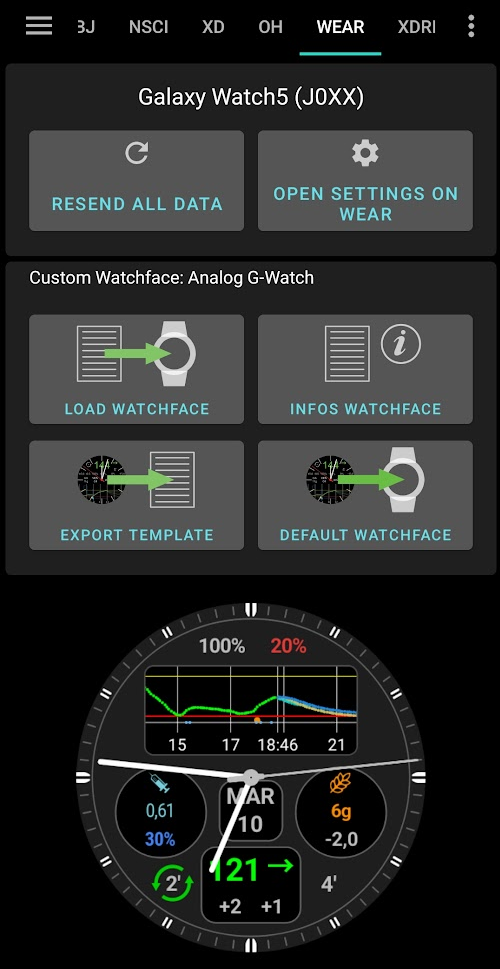
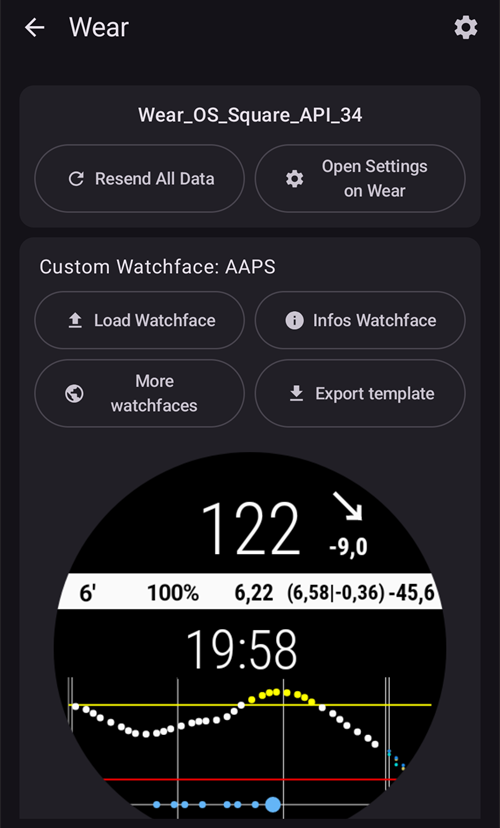
Update Wear

diff --git a/docs/EN/RemoteFeatures/RemoteControlWearOS.md b/docs/EN/RemoteFeatures/RemoteControlWearOS.md
@@ -30,7 +30,8 @@ The top line shows the name of the connected watch, or **(No Watch Connected)**.
 * Resend all data.
   Might be helpful if watch was not connected for some time, and you want to push the information to the watch.
 * Open settings on your watch directly from your phone.
-* Choose which watchface **AAPS** installs on a **Wear OS 6** or newer watch (**Watchface installed on watch**: your custom watchface, or the complications watchface). See [the watchface AAPS installs](#wearos-aaps-v4-watchface).
+* Choose which watchface **AAPS** installs on the watch (**Watchface installed on watch**: your custom watchface, or the complications watchface). This card is only shown while a **Wear OS 6** or newer watch is connected. See [the watchface AAPS installs](#wearos-aaps-v4-watchface).
+* Manage the **Custom Watchface** (the card is shown while a watch is connected): **Load Watchface** sends a custom watchface to the watch, **Infos Watchface** lists the details of the loaded watchface and the fields it contains, **More watchfaces** opens the [exchange site](../ExchangeSiteCustomWatchfaces/index.md) in your browser, and **Export template** saves a template you can edit. A preview of the loaded watchface is shown below the buttons. See [Changing to an AAPS Watchface](#WearOS_changing-to-AAPS-watchface).
 
 Ensure notifications from AAPS are not blocked on the watch. Confirmation of an action (e.g. bolus, tempt target) comes via a notification which you will need to swipe and tick.
 
@@ -49,7 +50,9 @@ To open the main menu of **AAPS**, use one of these:
 
 ## Loop Status screen
 
-The **Loop Status** screen gives a summary of what the loop is doing, without taking out your phone. Open it from the AAPS main menu (**Loop status**, or **Status → Loop**), or by tapping the **Blood Glucose** complication.
+The **Loop Status** screen gives a summary of what the loop is doing, without taking out your phone. Open it from the AAPS main menu (**Loop status**, or **Status → Loop**), or by tapping the **Blood Glucose** complication. The **Status** menu also has a **Pump** page and a **TDD** page with the total daily doses.
+
+![Status menu: Pump, Loop and TDD](../images/wearos/status_menu.png)
 
 ![Loop Status screen](../images/wearos/loop_status.png)
 
@@ -106,7 +109,7 @@ The **Calculator Percentage** setting lets you enter a *percentage* of the calcu
 
 ### Choosing the meal type
 
-The watch calculator can split the carbs of a slow meal into carbs now and eCarbs later, like the [carbs type](#AapsScreens-carbs-type) of the phone wizard. Turn on **Calculator Meal Type** in the watch settings. The setting is off by default, and then the **Meal type** page is skipped.
+The watch calculator can split the carbs of a slow meal into carbs now and eCarbs later, like the [carbs type](#AapsScreens-carbs-type) of the phone wizard. Turn on **Calculator Meal Type** in the watch's **Settings** > **Interface**. The setting is off by default, and then the **Meal type** page is skipped.
 
 * After you enter the carbs, a **Meal type** page shows three icons: **Bread**, **Cake** and **Pizza**. Tap an icon: its name and the carbs it gives show below the icons, for example *65 g* for bread, or *52+22 g* for pizza (52 g now and 22 g of eCarbs later). **Bread** is the default and keeps all the carbs now.
 * The request and confirm pages show the carbs in the same way (*52+22 g*). The result page also shows when the eCarbs start and how long they last.
@@ -173,11 +176,17 @@ AAPS provides the complications below. "Opens" is what a tap does with **Complic
 * **Running mode** (`SMALL IMAGE` / `ICON`, opens _Running mode picker_): the current loop mode as an icon: closed loop, open loop, low glucose suspend, suspended, disconnected or disabled. A tap opens a picker with the mode changes allowed right now, for example **Suspend loop**, **Disconnect pump**, **Resume loop** or **Reconnect pump**. The same picker is in the **AAPS** main menu under **Running mode**.
 * **Uploader/Phone Battery** (`RANGED VALUE` / `SHORT TEXT` / `ICON`, opens _Status_): the battery of the **AAPS** phone, as a gauge with a battery icon, as a number, or as the icon alone. It updates together with the other **AAPS** data, usually every 5 minutes with a new reading.
 
+The **Running mode** picker, as opened from the complication, the main menu or the Running mode tile:
+
+![Running mode picker with the modes you can switch to](../images/wearos/running_mode_picker.png)
+
 (WearOsSmartwatch-complication-settings)=
 
 ### Complication related settings
 
 In the **AAPS** main menu on the watch, open **Settings** > **Complication**:
+
+![Settings > Complication on the watch](../images/wearos/settings_complication.png)
 
 * **Complication Tap Action** (default `Default`): what a tap on an **AAPS** complication opens, for all complications at once:
   * _Default_: what the complication itself opens, see the list above
@@ -238,9 +247,17 @@ Shortcuts to the dialogs of the **AAPS** watch app. Pick up to four of these in 
 * **TempT**: a temporary target with a custom target and duration
 * **Profile switch**: a profile switch with percentage, time shift and duration
 
-[1] In the watch's **Settings**, turn on **Calculator Percentage** to show the percentage input in the bolus calculator. The default percentage comes from the phone's ["Deliver this part of the bolus wizard result %"](#Preferences-deliver-this-part-of-bolus-wizard-result). The other calculator settings are those of the phone under **Preferences** > **Wizard Settings**.
+![Actions tile settings: one entry per place](../images/wearos/tiles/tile_settings_actions.png)
 
-[2] In the watch's **Settings**, turn on **Calculator Meal Type** to show the **Meal type** page, where you pick **Bread**, **Cake** or **Pizza** to split the carbs of a slow meal into carbs now and eCarbs later. See [Choosing the meal type](#WearOsSmartwatch-wizard-meal-type).
+The dialogs the buttons open. Swipe from right to left to reach the next page of a dialog, and tap the check mark on the last page to send the request to the phone:
+
+| Treat | Insulin | Carbs | eCarbs | TempT | Profile switch |
+| --- | --- | --- | --- | --- | --- |
+| ![Treatment dialog, insulin page](../images/wearos/dialogs/dialog_treatment.png) | ![Insulin dialog](../images/wearos/dialogs/dialog_insulin.png) | ![Carbs dialog](../images/wearos/dialogs/dialog_carbs.png) | ![eCarbs dialog](../images/wearos/dialogs/dialog_ecarbs.png) | ![Temp Target dialog, duration page](../images/wearos/dialogs/dialog_temp_target.png) | ![Profile switch dialog](../images/wearos/dialogs/dialog_profile_switch.png) |
+
+[1] In the watch's **Settings** > **Interface**, turn on **Calculator Percentage** to show the percentage input in the bolus calculator. The default percentage comes from the phone's ["Deliver this part of the bolus wizard result %"](#Preferences-deliver-this-part-of-bolus-wizard-result). The other calculator settings are those of the phone under **Preferences** > **Wizard Settings**.
+
+[2] In the watch's **Settings** > **Interface**, turn on **Calculator Meal Type** to show the **Meal type** page, where you pick **Bread**, **Cake** or **Pizza** to split the carbs of a slow meal into carbs now and eCarbs later. See [Choosing the meal type](#WearOsSmartwatch-wizard-meal-type).
 
 ### Temp Target tile
 
@@ -268,6 +285,8 @@ The [QuickWizard](#quickwizards) entries of the phone that have **Show on Watch*
 
 The [Scenes](#scenes-from-watch) of the phone. Each of the four places is set to **Automatic**, **None** or one scene in the tile settings. An **Automatic** place takes the next scene from the phone's list that no other place has claimed. A place set to a scene that no longer exists on the phone shows **Unavailable**.
 
+![Scene tile settings, four places set to Automatic](../images/wearos/tiles/tile_settings_scene.png)
+
 ### Running mode tile
 
 ![Running mode tile](../images/wearos/tiles/tile_running_mode.png)
@@ -285,6 +304,10 @@ One button for each [automation](#automations-automation-triggers) on the phone 
 ![BG Graph tile](../images/wearos/tiles/tile_bg_graph.png)
 
 The glucose value with arrow, delta and age, below it IOB, COB, basal rate and target, and the BG graph with predictions, boluses, carbs and SMBs. Two settings on the watch: **Time range** (1, 3 or 6 hours) and **Tap action**, which opens the full **BG Graph**, the **Main Menu** or the **Loop Status** screen.
+
+![The BG Graph screen](../images/wearos/bg_graph.png)
+
+![BG Graph tile settings: Time range and Tap action](../images/wearos/tiles/tile_settings_bg_graph.png)
 
 ## Always on
 

diff --git a/docs/EN/WearOS/WearOsSmartwatch.md b/docs/EN/WearOS/WearOsSmartwatch.md
@@ -38,12 +38,12 @@ Watches running **Wear OS 6 or newer** cannot run the classic AAPS watchfaces as
 - **Custom watchface** (default): shows the custom watchface you loaded from the phone with **Load Watchface** (see [Changing to an AAPS Watchface](#WearOS_changing-to-AAPS-watchface)). The watch draws your design as a picture, so every existing custom watchface works. The complication slots a custom watchface may define are **not available** in this picture, because Wear OS only delivers complication data to a real watchface. Long-press the face to reach its one setting: whether the always-on display shows a plain clock or your own design, dimmed.
 - **Complications watchface** (the **AAPS V4** watchface): its **seven complication slots** come **preconfigured with AAPS data**: BG value, IOB, COB, the [BG Graph complication](#Watchfaces-complications), basal rate / temp target, and the **Running Mode** icon in the top-left slot (tap it to change the loop mode from the watch). Tap the time at the top to open the watch's alarm app. You can change what each slot shows in the watch face editor.
 
-You choose on the phone: open the **Wear** plugin and, under **Watchface installed on watch**, select one of the two. **AAPS** asks you to confirm, because the watch replaces its face immediately. Switching away from the **Complications watchface** also resets the complications you changed in the watch face editor back to the defaults, and the confirmation says so. While the **Complications watchface** is selected, the custom watchface buttons are hidden and a preview of the face is shown instead. If you load a custom watchface while the **Complications watchface** is selected, **AAPS** reminds you to switch to **Custom watchface** to see it on the watch.
+You choose on the phone: open the **Wear** plugin and, under **Watchface installed on watch**, select one of the two. This card is only shown while a Wear OS 6 or newer watch is connected. **AAPS** asks you to confirm, because the watch replaces its face immediately. Switching away from the **Complications watchface** also resets the complications you changed in the watch face editor back to the defaults, and the confirmation says so. While the **Complications watchface** is selected, the custom watchface buttons are hidden and a preview of the face is shown instead. If you load a custom watchface while the **Complications watchface** is selected, **AAPS** reminds you to switch to **Custom watchface** to see it on the watch.
 
 - The selected watchface is **installed and activated automatically** the first time the AAPS watch app runs on such a watch, and it is **updated automatically** together with the watch app.
 - If you removed the watchface, an **Install watchface** entry appears at the bottom of the watch's AAPS **main menu** — tap it to reinstall.
 
-On watches running Wear OS 5 or older this setting is ignored (the mechanism it relies on requires Wear OS 6); the classic watchfaces run there as before.
+While a watch running Wear OS 5 or older is connected, the **Watchface installed on watch** card is not shown at all (the mechanism it relies on requires Wear OS 6); the classic watchfaces run there as before.
 
 (wearos-complications-watchface-setup)=
 
@@ -326,17 +326,17 @@ There are a number of watchfaces available in the standard build of the AAPS Wea
 
 3. Now open AAPS on your phone and open the Wear plugin: **Configuration** > **Communication** > **Wear** > **Open plugin** (tick **Wear** first if it is not enabled).
 
-![Wear plugin with the Custom Watchface buttons](../images/wearos/wear_plugin_custom_watchface.png)
+![Wear plugin with the Custom Watchface card](../images/wearos/wear_plugin_custom_watchface.png)
 
 4. Click on the "Load Watchface" button and select the watchface that you like
 
 ![Select Custom Watchface list](../images/wearos/select_custom_watchface.png)
 
-5. Check your watch, the "AAPS (Custom)" watchface should now be displaying the skin that you have selected. Give it a few seconds to refresh. You may now customize the complications, etc. by long pressing the watchface and then pressing the "Customize" button on the watchface image.
+5. Check your watch, the "AAPS (Custom)" watchface should now be displaying the skin that you have selected. Give it a few seconds to refresh. The **Wear** screen on the phone now shows the name of the loaded watchface and a preview of it. **Infos Watchface** lists its details and the fields it contains, and **More watchfaces** opens the [exchange site](../ExchangeSiteCustomWatchfaces/index.md) where you can download other custom watchfaces. You may now customize the complications, etc. by long pressing the watchface and then pressing the "Customize" button on the watchface image.
 
 ```{admonition} Complications on a custom watchface
 :class: note
-Custom watchfaces made with version 3.0 or newer of the custom watchface format can contain up to five complication slots, with their position and size defined by the watchface (**Complication layout**). On the watch, long-press the watchface, tap **Customize** and tap **Complication 1** to **Complication 5** to choose the data source shown in each slot. The same rows are listed in the watch's AAPS app under **Settings**; tapping one there opens the same picker. **Complication type priority** decides whether a slot prefers a value or gauge, text, or an icon when the data source offers several. A changed priority only applies the next time you pick a data source for that slot.
+Custom watchfaces made with version 3.0 or newer of the custom watchface format can contain up to five complication slots, with their position and size defined by the watchface (**Complication layout**). On the watch, long-press the watchface, tap **Customize** and tap **Complication 1** to **Complication 5** to choose the data source shown in each slot. The same rows are listed in the watch's AAPS app under **Settings** > **AAPS(Custom)**; tapping one there opens the same picker. **Complication type priority** decides whether a slot prefers a value or gauge, text, or an icon when the data source offers several. A changed priority only applies the next time you pick a data source for that slot.
 
 These slots only work on watches running **Wear OS 5 or older**, where the custom watchface runs as a real watchface. On **Wear OS 6 and newer**, the custom watchface is shown as a picture without its complication slots, and steps 1 and 2 above are not needed: make sure **Custom watchface** is selected under **Watchface installed on watch** in the phone's **Wear** plugin (see [the watchface AAPS installs](#wearos-aaps-v4-watchface)).
 ```
